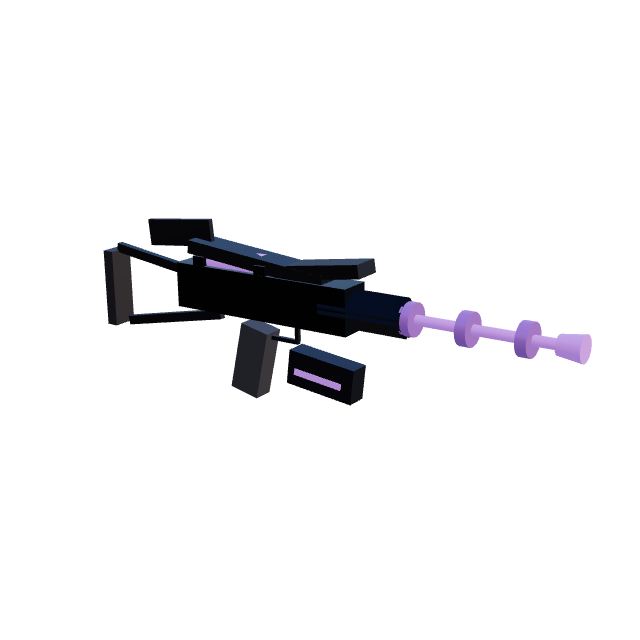
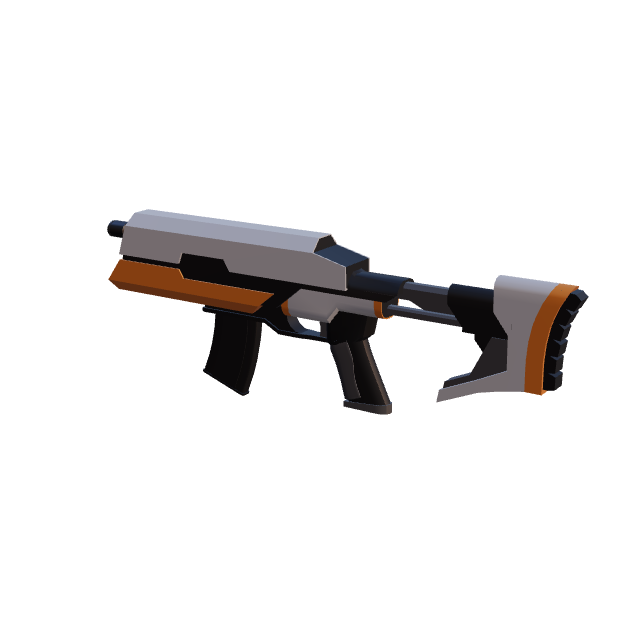
feat(art): bake real gun GLBs into the shop instead of box meshes
The procedural GunMesh reads as a toy no matter how it's shaded — the fix is a
real model. The bake page now renders a gun's real GLB when one exists (the same
rifle.glb / blaster.glb the fight uses), falling back to makeGunMesh otherwise.
Assault Rifle now bakes from the real M4 model and the Valor Prototype from the
sci-fi blaster — both read as actual weapons, and the AR matches what you hold
in-game. Sidearm / SMG / Marksman still need their own models (next).

Changed region(s): [[0.1562, 0.3125, 0.9375, 0.6562]]

diff --git a/apps/web/src/app/dev/bake-items/page.tsx b/apps/web/src/app/dev/bake-items/page.tsx
@@ -9,13 +9,45 @@
 import { Suspense, useLayoutEffect, useMemo } from 'react';
 import { useSearchParams } from 'next/navigation';
 import { Canvas, useThree } from '@react-three/fiber';
-import { Environment } from '@react-three/drei';
+import { Environment, useGLTF } from '@react-three/drei';
 import * as THREE from 'three';
 import { makeGunMesh } from '@/engine/scene/GunMesh';
 import { makeItemMesh, type ItemMeshId, ITEM_MESH_IDS } from '@/engine/scene/ItemMesh';
 import type { GunId } from '@/engine/combat/GunStats';
 
 const GUN_IDS: GunId[] = ['sidearm', 'smg', 'assault_rifle', 'marksman', 'legendary'];
+
+/**
+ * Guns that have a REAL modeled GLB instead of the procedural box mesh. These
+ * bake from the same assets the fight uses, so the shop shows the real weapon.
+ * (Only two base models exist today; the rest still fall back to makeGunMesh.)
+ */
+const GUN_GLB: Partial<Record<GunId, string>> = {
+  assault_rifle: '/models/guns/rifle.glb',
+  legendary: '/models/guns/blaster.glb',
+};
+
+/** Centre a posed holder on its bbox and return the hero-shot camera distance. */
+function frameHolder(holder: THREE.Group, obj: THREE.Object3D): number {
+  holder.updateMatrixWorld(true);
+  const box = new THREE.Box3().setFromObject(holder);
+  obj.position.sub(box.getCenter(new THREE.Vector3()));
+  holder.updateMatrixWorld(true);
+  const size = new THREE.Box3().setFromObject(holder).getSize(new THREE.Vector3());
+  const maxDim = Math.max(size.x, size.y, size.z);
+  return (maxDim / 2) / Math.tan((30 * Math.PI) / 360) * 1.18;
+}
+
+function useHeroCamera(dist: number) {
+  const { camera } = useThree();
+  useLayoutEffect(() => {
+    const cam = camera as THREE.PerspectiveCamera;
+    cam.fov = 30;
+    cam.position.set(dist * 0.18, dist * 0.22, dist);
+    cam.lookAt(0, 0, 0);
+    cam.updateProjectionMatrix();
+  }, [camera, dist]);
+}
 
 function buildAsset(name: string): { obj: THREE.Group; isGun: boolean } {
   if (name.startsWith('gun_')) {
@@ -27,7 +59,8 @@ function buildAsset(name: string): { obj: THREE.Group; isGun: boolean } {
   return { obj: makeGunMesh('sidearm'), isGun: true };
 }
 
-function Subject({ name }: { name: string }) {
+/** Procedural mesh / item subject. */
+function MeshSubject({ name }: { name: string }) {
   const staged = useMemo(() => {
     const { obj, isGun } = buildAsset(name);
     // Hero pose: guns show a 3/4 side profile with the muzzle to the right;
@@ -35,26 +68,41 @@ function Subject({ name }: { name: string }) {
     obj.rotation.set(isGun ? 0.08 : 0.04, isGun ? Math.PI / 2 - 0.42 : -0.45, 0);
     const holder = new THREE.Group();
     holder.add(obj);
-    holder.updateMatrixWorld(true);
-    // Centre on the bounding box so every asset fills the frame the same way.
-    const box = new THREE.Box3().setFromObject(holder);
-    const c = box.getCenter(new THREE.Vector3());
-    obj.position.sub(c);
-    const size = box.getSize(new THREE.Vector3());
-    const maxDim = Math.max(size.x, size.y, size.z);
-    return { holder, dist: (maxDim / 2) / Math.tan((30 * Math.PI) / 360) * 1.18 };
+    return { holder, dist: frameHolder(holder, obj) };
   }, [name]);
-
-  const { camera } = useThree();
-  useLayoutEffect(() => {
-    const cam = camera as THREE.PerspectiveCamera;
-    cam.fov = 30;
-    cam.position.set(staged.dist * 0.18, staged.dist * 0.22, staged.dist);
-    cam.lookAt(0, 0, 0);
-    cam.updateProjectionMatrix();
-  }, [camera, staged]);
-
+  useHeroCamera(staged.dist);
   return <primitive object={staged.holder} />;
+}
+
+/** Real GLB weapon subject: normalise the model (longest axis = barrel → +Z,
+ *  unit length, centred), then pose it exactly like a mesh gun. */
+function GlbSubject({ url }: { url: string }) {
+  const { scene } = useGLTF(url);
+  const staged = useMemo(() => {
+    const obj = scene.clone(true);
+    obj.rotation.set(0, 0, 0); obj.position.set(0, 0, 0); obj.scale.set(1, 1, 1);
+    // Longest axis → +Z (the barrel), so the hero pose lands the same as the meshes.
+    const size = new THREE.Box3().setFromObject(obj).getSize(new THREE.Vector3());
+    if (size.x >= size.y && size.x >= size.z) obj.rotateY(-Math.PI / 2);
+    else if (size.y >= size.x && size.y >= size.z) obj.rotateX(Math.PI / 2);
+    obj.rotateY(Math.PI); // face muzzle the hero direction
+    obj.updateMatrixWorld(true);
+    obj.traverse((o) => { const m = o as THREE.Mesh; if (m.isMesh) m.castShadow = true; });
+
+    const posed = new THREE.Group();
+    posed.add(obj);
+    posed.rotation.set(0.08, Math.PI / 2 - 0.42, 0); // same 3/4 hero angle as mesh guns
+    const holder = new THREE.Group();
+    holder.add(posed);
+    return { holder, dist: frameHolder(holder, posed) };
+  }, [scene]);
+  useHeroCamera(staged.dist);
+  return <primitive object={staged.holder} />;
+}
+
+function Subject({ name }: { name: string }) {
+  const glb = name.startsWith('gun_') ? GUN_GLB[name.slice(4) as GunId] : undefined;
+  return glb ? <GlbSubject url={glb} /> : <MeshSubject name={name} />;
 }
 
 export default function BakeItemsPage() {
@@ -101,7 +149,9 @@ function BakeInner() {
         <directionalLight position={[3, 3.5, 3]} intensity={2.6} color={'#ffe9cf'} />
         <directionalLight position={[-3.5, 2, -3]} intensity={2.0} color={'#8fb4ff'} />
         <directionalLight position={[0, -2.5, 1.5]} intensity={0.35} color={'#ffffff'} />
-        <Subject name={asset} />
+        <Suspense fallback={null}>
+          <Subject name={asset} />
+        </Suspense>
       </Canvas>
       {/* index for the bake script */}
       <div id="asset-list" style={{ display: 'none' }}>{all.join(',')}</div>